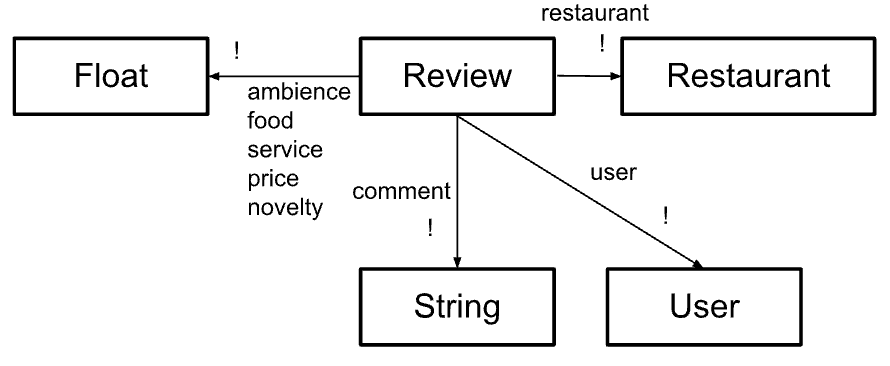
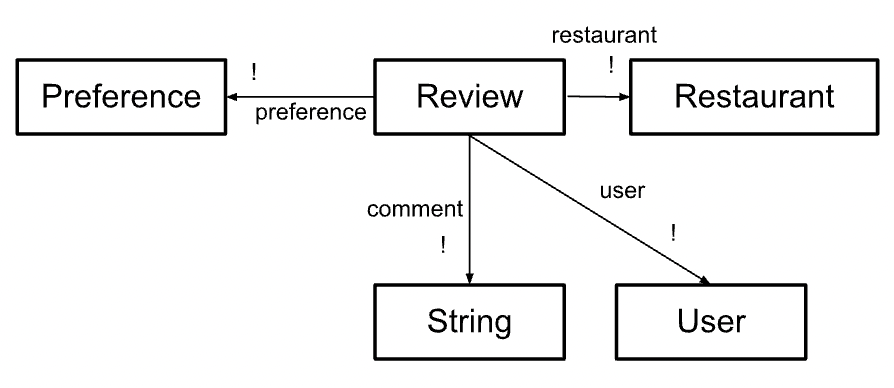
A4

diff --git a/docs/assignments/assignment4.md b/docs/assignments/assignment4.md
@@ -11,9 +11,27 @@ You can find the code repository [HERE](https://github.com/irisxyang/backend-sta
 
 You can find the deployed service [HERE](https://backend-starter-gilt.vercel.app/).
 
+## Beta Deliverables
+
+### Design Reflection
+
+#### Grouping Concept
+
+The first challenge I encountered was when I was implementing the Grouping concept. Originally, I had one Grouping concept that would store an array of Restaurants. However, I found this to be extremely clunky in practice, as I was having to continuously pass back an array of Restaurant Object IDs back and forth throughout my code. The reason why this was such a difficult issue to tackle was because not only could groups have multiple restaurants in them, but restaurants could also be a part of multiple groups.
+
+I ended up creating an entire new concept: GroupItem. I made the concept generic, since the idea of "grouping" is a very widely applicable concept. The way it works is that each instance stores a Grouping concept (which I simplified to just storing its associated creator and a name) and also stores an associated Item (Restaurant). Every time a new Restaurant is added to any group, a new instance is added to GroupItem with the Group and Restaurant ID. This allowed me to avoid clunky backend implementation practices.
+
+#### Weighting Preferences and Review Preferences
+
+The second challenge I encountered was when I was trying to implement the Preferences concept. Preferences is a group of set characteristics each assigned a score. From my A3 feedback, I realized it was very inefficient and not-rep-independent to be storing the preferences directly as metadata in my Weighting and Review concepts. In my previous implementation, both Review and Weighting stored these characteristics as state.
+
+I decided to create a new concept, Preferences, which held these characteristics. The main issue I encounted after this was trying to figure out which concept should store the other. My initial thought was that backend implementation should be done from a bottom-up approach, which was why I initially tried to implement Preferences to store its associated Object. So, I would have Preferences [Object], and pass in either Weighting or Review depending on its function.
+
+One thing that I did not realize would affect the implementation was the fact that I did not want the preferences to exist without its associated Object. This meant that a Preference was never created, retrieved, or deleted on its own--only if its associated Weighting or Review was also respectively changed. So, I ended up storing the Preference in Review and Weighting.
+
 ## Concepts (Modified From A3)
 
-### Concept 1: Reviewing [User]
+### Concept 1: Reviewing [User, Subject, Preferences]
 
 - **Purpose:** Allows users to review a particular restaurant and assign a rating to attributes, and share to that user's friends' feeds. Attributes include ambience, food, service, price, and novelty, and are rated with a value from [-5 to 5], and the overall review rating is based on an average of these attributes.
 - **Operational Principle:** If someone reviews a restaurant, then the review will be shared to their friends' feeds and the user can go back later to access that review on their own profile. If the review is deleted, then it will no longer show up on the app.
@@ -22,95 +40,15 @@ You can find the deployed service [HERE](https://backend-starter-gilt.vercel.app
   - restaurant: reviews --> **one** Restaurant
   - user: reviews --> **one** User
   - comment: reviews --> **?** String
-  - ambience, food, service, price, novelty: reviews --> **one** Float
+  - preferences: reviews --> **one** Preference
 - **Actions:**
-  - _add(res: Restaurant, ambience, food, service, price, novelty: Float, u: User, comment?: String, **out** review: Review)_ : create a review by a user for a restaurant, which includes scores for each characteristics
+  - _add(res: Restaurant, pref: Preference, u: User, comment?: String, **out** review: Review)_ : create a review by a user for a restaurant, which includes a Preference concept that has scores for each attribute in the preference
   - _delete(rev: Review)_ : delete a review
   - _edit(old: Review, new: Review)_ : edit a review
   - _getReviewAttributeScore(rev: Review, attribute: Attribute, **out** score: Float)_ : gets the score of a certain attribute of a review
   - _getOverallRating(rev: Review, **out** rating: Float)_ : returns the overall rating of a review based on the individual attribute scores
 
-### Concept 2: Authentication
-
-- **Purpose:** Authenticate users so that app users correspond to people.
-- **Operational Principle:** After a user registers a username and password, they can authenticate as that user by providing the same pair of (username, password) that they registered with.
-- **State:**
-  - registered: **set** User
-  - username, password: registered --> **one** String
-- **Actions:**
-  - _register(username, password: String, **out** user: User)_ : registers a username with a password as a user
-  - _authenticate(username, password: String, **out** user: User)_ : confirms that a given username and password have been registered as a user
-
-### Concept 3: Sessioning [User]
-
-- **Purpose:** Enable authenticated actions over a continuous period of time.
-- **Operational Principle:** If a user starts a session and it is currently active, the getUser action will return the user that started the session.
-- **State:**
-  - active: **set** Session
-  - user: active --> **one** User
-- **Actions:**
-  - _start(user: User, **out** session: Session)_ : start a session for a given user
-  - _getUser(session: Session, **out** user: User)_ : gets the current user for the current active session
-  - _end(session: Session)_ : ends an active user session
-
-### Concept 4: Grouping [User, Restaurant]
-
-- **Purpose:** Users can group restaurants in ordered lists and label them with a name, which will be stored so that they or their friends can refer back to the list in the future.
-- **Operational Principle:** If a user creates a new Group with a set of restaurants and names it, then they or their friends can access the group at any time and see what restaurants are under that group. If the user chooses a name that already exists for an existing Group of theirs, then they will be asked to choose a unique name. If the user deletes the group, then the group will no longer be stored.
-- **State:**
-  - groups: **set** Group
-  - restaurants: groups --> **set** Restaurant
-  - name: groups --> **one** String
-  - user: groups --> **one** User
-- **Actions:**
-  - _addGroup(user: User, restaurants: **set** Restaurant, name: String, **out** group: Group)_ : creates a new group of restaurants with a name
-  - _deleteGroup(group: Group)_ : deletes group given a Group object
-  - _findGroup(name: String, user: User, **out** group: Group)_ : finds a group by a specified user given the group name
-
-### Concept 5: Restaurant
-
-- **Purpose:** Each restaurant on the app is a representation of a real restaurant and holds the basic information for that restaurant, as well as overall ratings.
-- **Operational Principle:**
-- **State:**
-  - restaurants: **set** Restaurant
-  - name, address: restaurants --> **one** String
-  - website: restaurants --> **one** URL
-  - reviews: restaurants --> **set** Review
-- **Actions:**
-  - _getRestaurant(name: String, address?: String)_ : gets a restaurant given its name, and also address if needed
-  - _getRestaurantWebsite(restaurant: Restaurant, **out** url: URL)_ : gets a specific restaurant's website
-  - _getRestaurantReviews(res: Restaurant, **out** reviews: **set** Review)_ : gets all the reviews for that restaurant
-  - _deleteRestaurant(res: Restaurant)_ : removes a restaurant from the overall list (i.e., if a restaurant closes down)
-  - _addRestaurant(name, address: String, website: URL, **out** res: Restaurant)_ : adds a restaurant to restaurants
-
-### Concept 6: Following [User]
-
-- **Purpose:** Users can follow other users to be able to view the other user's Groups and see the other user's Reviews on their feed.
-- **Operational Principle:** If user A follows user B, then user A can view all of the Groups that user B has made, and any Reviews that user B makes will appear on user A's feed. But, if user A unfollows user B or user B removes user A as a follower, then they will not be able to access their content anymore.
-- **State:**
-
-  - following: **set** User
-  - followers: **set** User
-  - user: followings, followers --> **one** User
-
-- **Actions:**
-  - _follow(curUser: User, toFollow: User)_ : allows curUser to follow toFollow
-  - _unfollow(curUser: User, toUnfollow: User)_ : allows curUser to unfollow toUnfollow
-  - _removeFollower(curUser: User, follower: User)_ : removes follower as a follower of curUser
-
-### Concept 7: Weighting [User]
-
-- **Purpose:** Allows user to set their personal preferences on how much value they put on each attribute (ambience, food, service, price, and novelty), and thus return a weighted average overall rating for a restaurant.
-- **Operational Principle:** If a user does not care whether a restaurant has good service, then they can set their preference for service to be 0. Then, when calculating the overall rating of a review based on attribute scores, getReviewWeightedAverage will return an average that puts no weight on service--i.e., the service score of that review has no effect on the weighted average.
-- **State:**
-  - weightings: **set** Weighting
-  - user: user --> **one** User
-  - ambience, food, service, price, novelty: preferences --> **one** Integer
-- **Actions:**
-  - _setPreference(ambience, food, service, price, novelty: Integer, user: User, **out** preference: Preference)_ : sets a user preference to be the values passed in
-  - _getReviewWeightedAverage(rev: Review, pref: Preference, **out** avg: Float)_ : given a review and a specified preference, will return the correct weighted average of the review's attribute scores (weighted based on preference).
-
-## Beta Deliverables
+## Alpha Deliverables
 
 ### Abstract Data Models
 
@@ -141,3 +79,9 @@ You can find the deployed service [HERE](https://backend-starter-gilt.vercel.app
 #### Concept 7: Weighting
 
 <img src="./assignment4/weighting.png" width="500px"/>
+
+#### Concept 8: Preferences
+
+<img src="./assignment4/preferences.png" width="200px"/>
+
+- make reviewinc concept generic with respect ot subject of reviews
